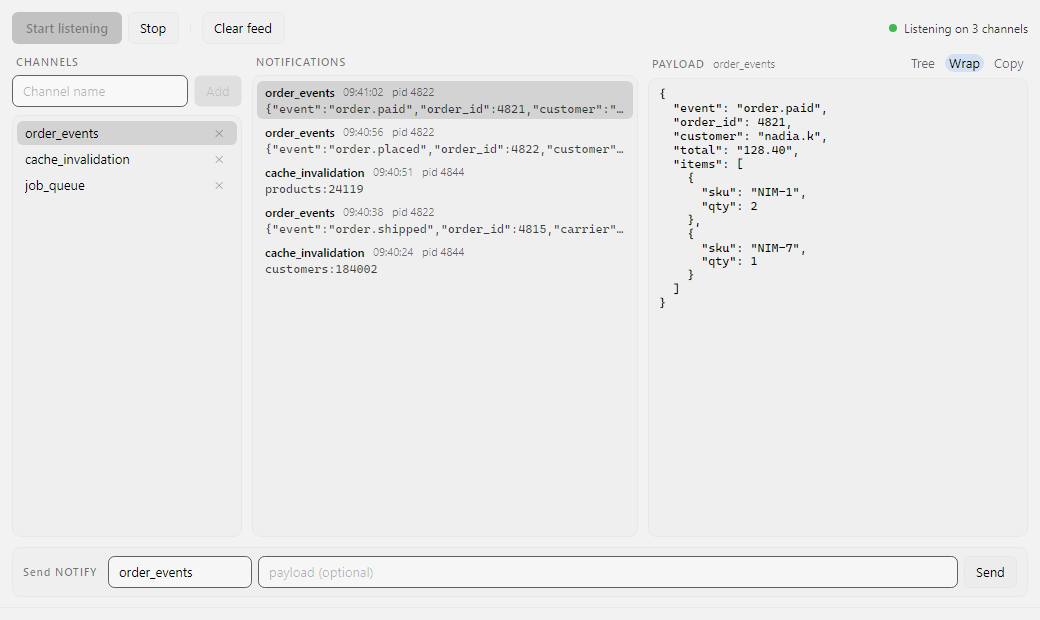
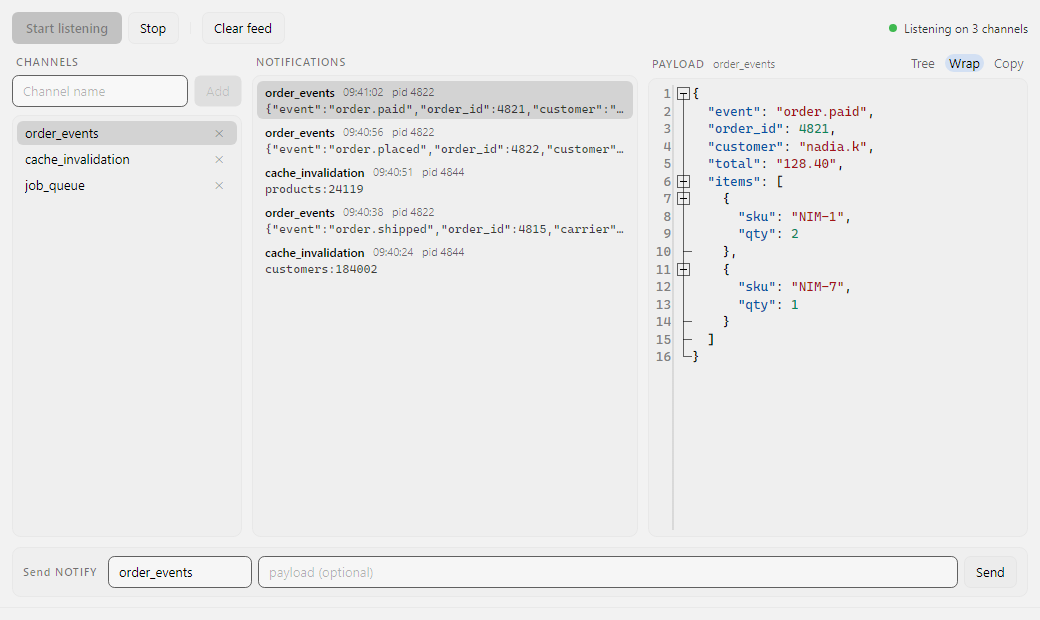
Update documentation site (from docs/ @ e61bdac)

Changed region(s): [[0.6462, 0.1532, 0.8308, 0.429], [0.6154, 0.3984, 0.6769, 0.5823], [0.7077, 0.4597, 0.8, 0.521]]

diff --git a/docs/guide/results/index.html b/docs/guide/results/index.html
@@ -1253,13 +1253,18 @@ guessing at a client-side conversion.</p>
 inspector opens straight on its Edit tab, with:</p>
 <ul>
 <li>pretty-printing and minifying</li>
-<li>JSON syntax highlighting</li>
+<li>JSON syntax highlighting, with keys, strings, numbers and <code>true</code>/<code>false</code>/<code>null</code>
+  each in their own colour</li>
+<li>folding for every object and array</li>
 <li>client-side validation before anything is sent</li>
-<li>a collapsible read-only tree view of the value</li>
+<li><kbd>Ctrl</kbd>+<kbd>Enter</kbd> to save, the same chord that runs a query</li>
 </ul>
 <p>Validation is driven by the column's type rather than by what the value looks
 like, so a plain <code>text</code> column holding something JSON-shaped still accepts any
 string.</p>
+<p>Text is shown as it is. A string such as <code>"Ann &lt;ann@example.com&gt;"</code> or one
+holding an emoji is not turned into <code>&lt;…</code> escapes, and e-mail addresses and
+URLs are ordinary text, not links.</p>
 <h2 id="safe-mode">Safe mode<a class="headerlink" href="#safe-mode" title="Permanent link">&para;</a></h2>
 <p><img alt="Two cell edits staged in safe mode (the rows turn amber), reviewed as SQL, then committed together in one transaction" src="../../screenshots/safe-mode-commit-demo.gif" /></p>
 <p>Safe mode is on by default for every new connection. It is for the "inline
@@ -1317,6 +1322,41 @@ graph and still have every step you came through.</p>
 truncation, with JSON pretty-printed and one-click copy. On an editable cell it
 also has an Edit tab, which is the comfortable way to edit anything longer than a
 line.</p>
+<p>A JSON value opens in a larger overlay, coloured the same way as the editor,
+with line numbers and a fold marker beside each object and array. A folded one
+shows how many fields or items it holds. <kbd>Ctrl</kbd>+<kbd>F</kbd> searches
+the value.</p>
+<p><strong>Tree</strong> shows the value as a collapsible document instead. It opens with as
+much expanded as fits on screen, so a small value is readable without a click.
+Select a row to see its path under the tree, written as SQL over the column
+(<code>metadata-&gt;'items'-&gt;0-&gt;&gt;'sku'</code>), ready to paste into a <code>WHERE</code>. Right-click a row
+to copy:</p>
+<table>
+<thead>
+<tr>
+<th>Item</th>
+<th>What you get</th>
+</tr>
+</thead>
+<tbody>
+<tr>
+<td>Copy Value</td>
+<td>The value itself: a string without its quotes, an object or array as formatted JSON</td>
+</tr>
+<tr>
+<td>Copy SQL Path</td>
+<td>The <code>-&gt;</code> / <code>-&gt;&gt;</code> expression over the column</td>
+</tr>
+<tr>
+<td>Copy JSON Path</td>
+<td>The SQL/JSON path, such as <code>$.items[0].sku</code>, for <code>jsonb_path_query</code> and friends</td>
+</tr>
+</tbody>
+</table>
+<p>The inspector remembers whether you last used the text or the tree, so pressing
+<kbd>Space</kbd> on the next row opens the same view.</p>
+<p>While the inspector is open, the window's other shortcuts are off. It is modal,
+so nothing you press there acts on the tab behind it.</p>
 <h2 id="transactions">Transactions<a class="headerlink" href="#transactions" title="Permanent link">&para;</a></h2>
 <p>An explicit transaction runs on one held connection, with a status-bar indicator
 so you always know you are inside one.</p>

diff --git a/docs/reference/keyboard-shortcuts/index.html b/docs/reference/keyboard-shortcuts/index.html
@@ -1140,6 +1140,11 @@ by default and can be forced either way in Settings → Hotkey scheme.</p>
 <td>Space / double-click (read-only) / context menu</td>
 </tr>
 <tr>
+<td>Save the value being edited in the cell inspector</td>
+<td>Ctrl+Enter in the cell inspector's editor</td>
+<td>⌘↩ in the cell inspector's editor</td>
+</tr>
+<tr>
 <td>Copy the selected cells</td>
 <td>Ctrl+C</td>
 <td>⌘C</td>
